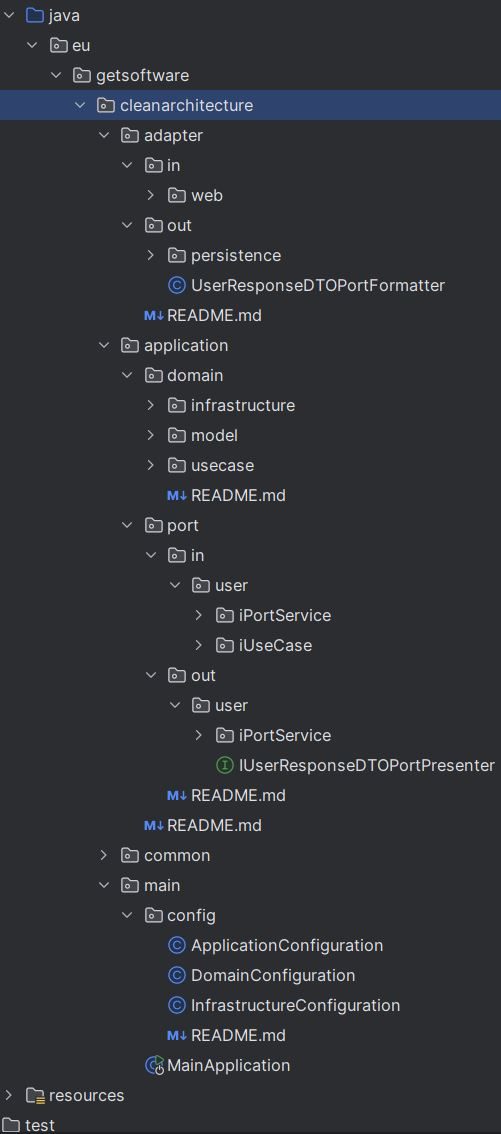
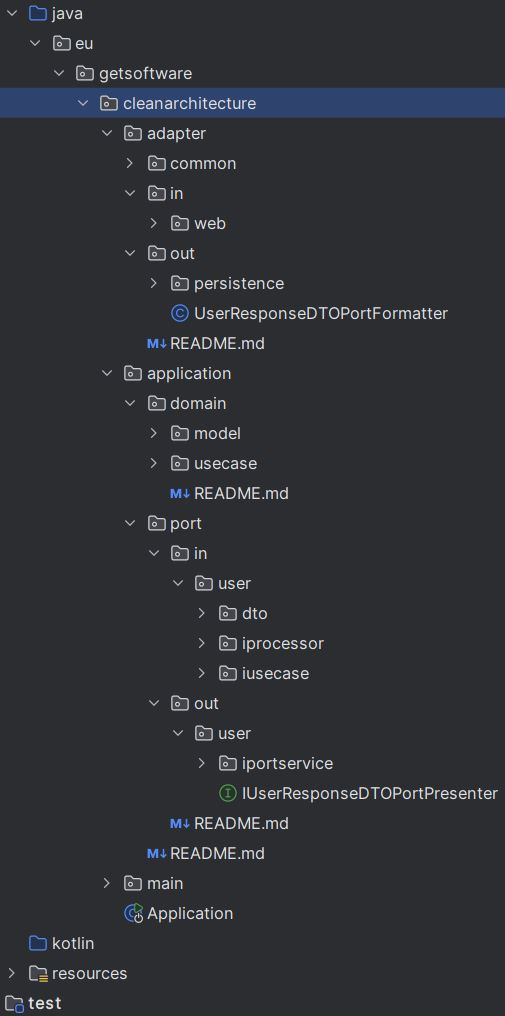
CHG configuration

Changed region(s): [[0.0, 0.0, 1.0, 0.9459], [0.0, 0.9154, 0.2695, 1.0]]

diff --git a/README.md b/README.md
@@ -17,7 +17,7 @@ This is because, it becomes practically impossible to separate these two types o
 ## My Approach to implement domain-centric architecture: 
 ###  Clean-Architecture (Onion) with Java (+ Domain-driven Design, + 'Hexagon' Architecture) 
 
-![structure](/docs/img/onion31tree.jpg)
+![structure](/docs/img/onion2Tree.jpg)
 
 ### Layer Structure:
 1. <b>Application</b> - the boundary between the core application logic and the external world.
